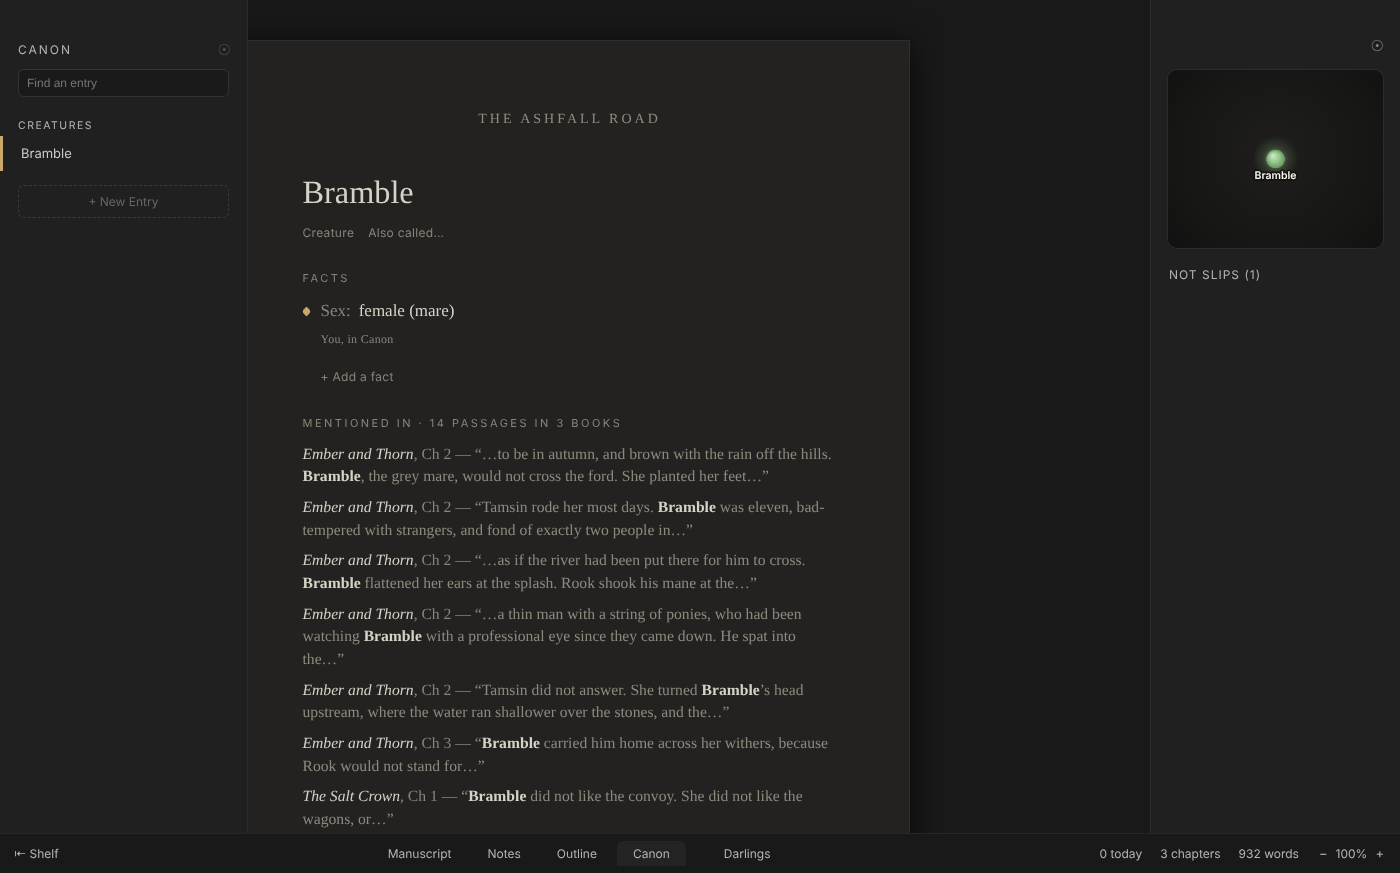
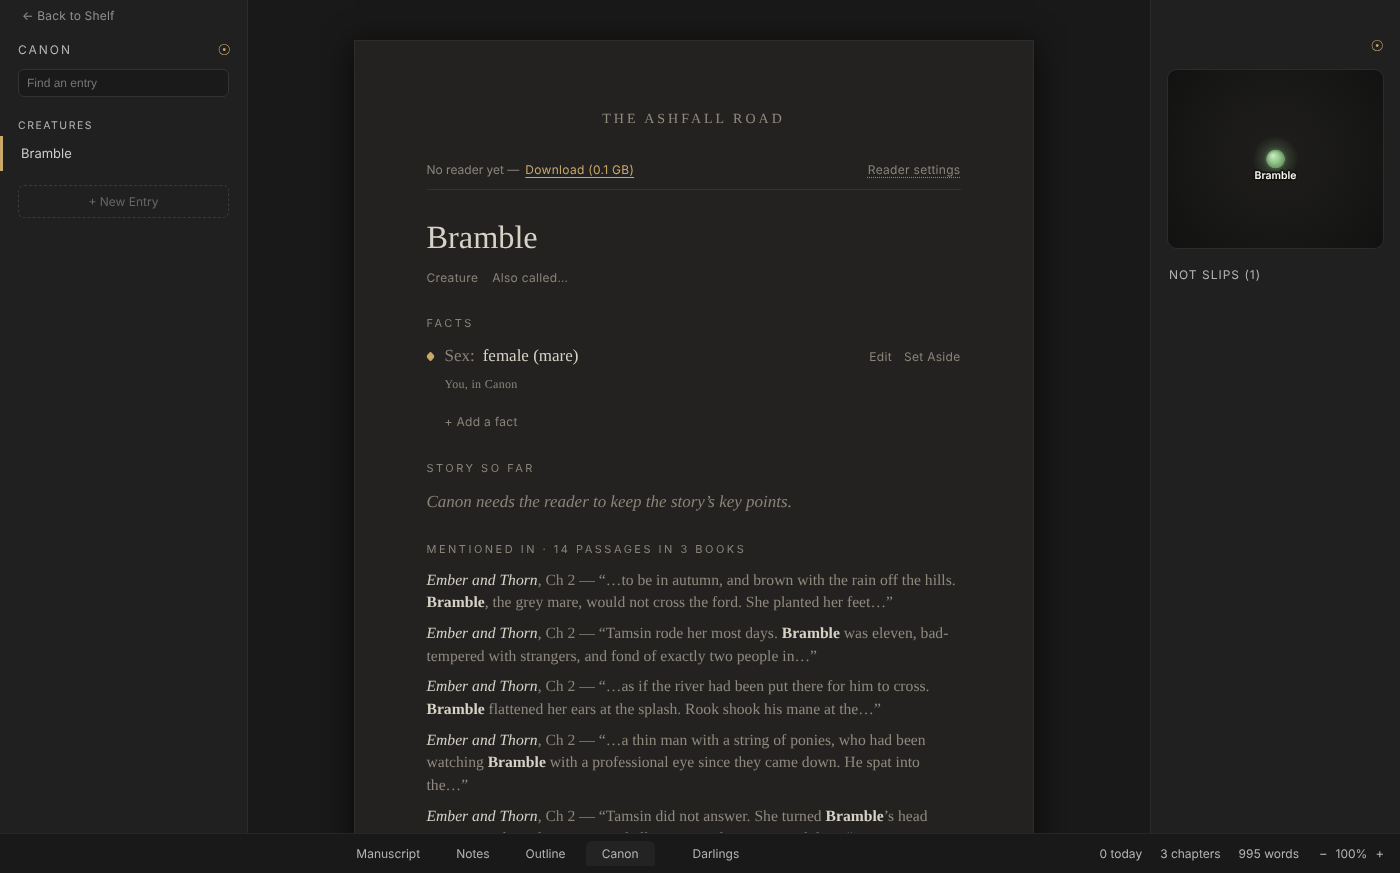
e2e: the Tutorial walked with no reader, the reader's states, Back to Shelf; screens
On a fresh computer: the Canon tab opens with both panes pinned and the
reader line offering Download; Help → Canon Reader… and ⌘K open its window;
lesson 3's button starts the download (paused for the walk); lessons 4 to 10
each do their Try this without a reader (lesson 6's sentence marked after the
pause and by ⌘'), and lesson 10's reader part shows its button. In the main
run, Reader ready · CPU and Reader settings (CPU only kept, then Automatic).
Screens refreshed for the pinned panes and the top-left Back to Shelf.

Claude-Session: https://claude.ai/code/session_01Uymcuup9eK8coCqa1NBqGH

diff --git a/scripts/canon.e2e.js b/scripts/canon.e2e.js
@@ -3,7 +3,9 @@
 // scripts/canon.e2e.js where there's no display). With CANON_SHOTS=1,
 // screenshots of the tab, a slip's popover, the reader's download, Read the
 // Shelf at work, the review of a change and a notebook go to
-// docs/semantics/screens/ (without it, nothing tracked is written).
+// docs/semantics/screens/ (without it, nothing tracked is written), and from
+// the Tutorial's walk, with no reader: the Canon tab's first open, the
+// reader's line and window in each state, Get the Reader, Back to Shelf.
 
 'use strict';
 
@@ -21,7 +23,8 @@ for (const name of fs.readdirSync(os.tmpdir())) {
 }
 // A part (NEO_E2E_PART) runs in a child NEO of its own, on a fresh computer
 // and an empty library (NEO_E2E_TMP): 'tutorial' meets the welcome and the
-// Tutorial; 'relaunch' opens NEO again on the same folders.
+// Tutorial, then walks its lessons with no reader; 'relaunch' opens NEO
+// again on the same folders.
 const PART = process.env.NEO_E2E_PART || '';
 const tmp = PART ? process.env.NEO_E2E_TMP : fs.mkdtempSync(path.join(os.tmpdir(), `neo-canon-test-${process.pid}-`));
 const LIB = path.join(tmp, 'NEO Library');
@@ -55,8 +58,9 @@ const server = http.createServer((req, res) => {
   const send = () => {
     if (res.destroyed) return;
     if (at >= MODEL.length) { res.end(); return; }
-    res.write(MODEL.subarray(at, at + 600000));
-    at += 600000;
+    const chunk = PART === 'tutorial' ? 150000 : 600000; // (the Tutorial's walk watches it longer)
+    res.write(MODEL.subarray(at, at + chunk));
+    at += chunk;
     setTimeout(send, 50);
   };
   send();
@@ -308,6 +312,35 @@ test('Read the Shelf (the fake reader), started by the download: progress, a pau
   await until(`currentTab === 'notes' && CSS.highlights.has('neo-canon-quote')`);
   assert.equal(await js(`[...CSS.highlights.get('neo-canon-quote')][0].toString()`), 'Bramble is in foal by the end of book 2?');
   await js(`switchTab('canon')`);
+});
+
+test('the reader, always findable: Reader ready · CPU at the top of an entry; Help → Canon Reader… with its settings', async () => {
+  await js(`canonGo('bramble')`);
+  await until(`/^Reader ready · CPU/.test(document.querySelector('#canon-view .cn-reader-line')?.textContent)`);
+  assert.equal(await js(`document.querySelector('#canon-view').firstElementChild.classList.contains('cn-reader-line')`), true);
+  await tick(300);
+  await shot('canon-reader-ready.png');
+  // the line's Reader settings, Help → Canon Reader… and ⌘K all open one window
+  wc.send('menu', { type: 'reader' });
+  await until(`!!document.querySelector('#canon-reader .rs-status') && /Reader ready · CPU/.test(document.querySelector('#canon-reader').textContent)`);
+  assert.deepEqual(await js(`[...document.querySelectorAll('#canon-reader .fr-choice.sel strong')].map((b) => b.textContent)`), ['Automatic', (tier === 'careful' ? 'Careful' : 'Quick') + ' reader · 0.1 GB']);
+  assert.match(await js(`document.querySelector('#canon-reader').textContent`), /Now: CPU\./);
+  assert.match(await js(`document.querySelector('#canon-reader .rs-speed').textContent`), /^Measured here: the reader reads about [\d,]+ words a minute\.$/);
+  await shot('canon-reader-settings.png');
+  // CPU only is kept in settings.json, and Automatic takes it away again
+  await js(`[...document.querySelectorAll('#canon-reader .fr-choice')].find((b) => b.textContent.startsWith('CPU only')).click()`);
+  await until(`canonRdr.hardware === 'cpu' && document.querySelector('#canon-reader .fr-choice.sel strong').textContent === 'CPU only'`);
+  assert.equal(JSON.parse(fs.readFileSync(path.join(tmp, 'app', 'settings.json'), 'utf8')).readerHardware, 'cpu');
+  await js(`[...document.querySelectorAll('#canon-reader .fr-choice')].find((b) => b.textContent.startsWith('Automatic')).click()`);
+  await until(`canonRdr.hardware === 'auto'`);
+  assert.equal(JSON.parse(fs.readFileSync(path.join(tmp, 'app', 'settings.json'), 'utf8')).readerHardware, undefined);
+  key('Escape');
+  await until(`!document.querySelector('#canon-reader')`);
+  await js(`document.querySelector('#canon-view .cn-rl-settings').click()`);
+  await until(`!!document.querySelector('#canon-reader')`);
+  await js(`document.querySelector('#canon-reader .rs-close').click()`);
+  await until(`!document.querySelector('#canon-reader')`);
+  await js(`canonShown = null; renderCanon()`);
 });
 
 const chapterFiles = () => ['c1', 'c2', 'c3'].map((c) => fs.readFileSync(path.join(LIB, SALT, 'chapters', c + '.html'), 'utf8'));
@@ -1071,11 +1104,207 @@ part('tutorial', 'the Tutorial on the shelf, and ⌘\' in its story finds exactl
   key("'", [CMD]);
   await until(`canonPassOn && canonProgress === '' && canonSlips.length === 3`, 9000);
   assert.deepEqual(await js(`canonSlips.map((s) => s.chId + ' ' + s.span + ' → ' + s.to)`), ['c2 his → her', 'c3 Marowby → Marrowby', 'c3 brown → grey']);
+  // fewer checks without the reader, said in one line with its button
+  assert.equal(await js(`document.querySelector('#canon-side .cs-reader').textContent`), 'Some checks need the reader. Download it (0.1 GB, runs on this computer).');
   await js(`canonSlips[0].range.startContainer.parentElement.scrollIntoView({ block: 'center' })`);
   await tick(400);
   await shot('tutorial-pass.png');
   key("'", [CMD]);
   await until(`!canonPassOn`);
+});
+
+// The Tutorial walked through, lesson by lesson, on a computer with no
+// reader: every Try this that needs none succeeds, and the lessons that need
+// the reader say so with a button that gets it.
+const lessons = () => js(`${tutorialShelf}.tutorial[0]`);
+const storyId = () => js(`${tutorialShelf}.tutorial[1]`);
+const lessonText = async (n) => { const id = await lessons(); return fs.readFileSync(path.join(LIB, id, 'chapters', 'l' + String(n).padStart(2, '0') + '.html'), 'utf8'); };
+const openStory = async (tab = 'manuscript') => {
+  const id = await storyId();
+  if (await js(`!book || book.id !== '${id}'`)) { await js(`openBook('${id}')`); await until(`book && book.id === '${id}'`); }
+  if (await js(`currentTab !== '${tab}'`)) await js(`switchTab('${tab}')`);
+};
+const caretAtEndOf = (chId) => js(`(() => { const ps = document.querySelectorAll('.chapter[data-id="${chId}"] .chapter-body p'); const p = ps[ps.length - 1]; p.scrollIntoView({ block: 'center' }); const r = document.createRange(); r.selectNodeContents(p); r.collapse(false); const s = getSelection(); s.removeAllRanges(); s.addRange(r); p.closest('.chapter-body').focus(); })()`);
+
+part('tutorial', 'lesson 1: ← Back to Shelf at the top left, in sight, and the darling already cut', async () => {
+  assert.match(await lessonText(1), /Back to Shelf/);
+  await openStory();
+  const b = await js(`(() => { const b = $('#back-to-shelf'); const r = b.getBoundingClientRect(); return { text: b.textContent.trim(), left: r.left, top: r.top, w: r.width, opacity: +getComputedStyle(b).opacity, inBar: !!b.closest('#bottombar') }; })()`);
+  assert.equal(b.text, '← Back to Shelf');
+  assert.ok(b.left < 120 && b.top < 20 && b.w > 60 && b.opacity >= 0.5 && !b.inBar, JSON.stringify(b));
+  assert.equal(await js(`!!document.querySelector('#bottombar #back-to-shelf')`), false); // one way back, not two
+  await tick(300);
+  await shot('back-to-shelf.png');
+  await theme('light');
+  await shot('back-to-shelf-light.png');
+  await theme('night');
+  await js(`$('#back-to-shelf').click()`);
+  await until(`!$('#bookshelf-view').hidden && $('#editor-view').hidden`);
+  await openStory('darlings');
+  await until(`/bitten a bishop/.test(document.querySelector('#darlings-list').textContent)`);
+});
+
+part('tutorial', 'the Canon tab, first open with no reader: both panes pinned, the reader line with Download; unpinned, it stays so', async () => {
+  assert.match(await lessonText(2), /read Chapter 1 of/);
+  await openStory('canon');
+  await until(`!!document.querySelector('#canon-view .cn-setup') && !!document.querySelector('#nav-list .cn-item')`);
+  const panes = `['#nav-pane', '#side-pane'].map((p) => $(p).dataset.pinned === '1' && $(p).classList.contains('open'))`;
+  assert.deepEqual(await js(panes), [true, true]);
+  assert.match(await js(`document.querySelector('#canon-view .cn-home').textContent`), /^Pick an entry from the list on the left/);
+  await tick(400);
+  await shot('canon-tab-first-open.png');
+  await theme('light');
+  await shot('canon-tab-first-open-light.png');
+  await theme('night');
+  // an entry: the reader line at the top, no reader yet, one button
+  await js(`canonGo('juniper')`);
+  await until(`/^No reader yet — Download \\(0\\.1 GB\\)Reader settings$/.test(document.querySelector('#canon-view .cn-reader-line')?.textContent)`);
+  await shot('canon-reader-none.png');
+  // the manuscript keeps its hover-hidden panes; the Canon tab its pins
+  await js(`switchTab('manuscript')`);
+  assert.deepEqual(await js(`['#nav-pane', '#side-pane'].map((p) => $(p).dataset.pinned === '1')`), [false, false]);
+  await js(`switchTab('canon')`);
+  assert.deepEqual(await js(panes), [true, true]);
+  await js(`$('#nav-pin').click()`);
+  await js(`switchTab('manuscript'); switchTab('canon')`);
+  assert.equal(await js(`$('#nav-pane').dataset.pinned`), '0'); // this device remembers
+  await js(`$('#nav-pin').click()`);
+  // Help → Canon Reader… opens from here, and ⌘K finds it
+  wc.send('menu', { type: 'reader' });
+  await until(`!!document.querySelector('#canon-reader') && /No reader on this computer yet\\.Download the Reader \\(0\\.1 GB\\)/.test(document.querySelector('#canon-reader').textContent)`);
+  await shot('canon-reader-window-none.png');
+  key('Escape');
+  await until(`!document.querySelector('#canon-reader')`);
+  await until2(() => key('K', [CMD]), `!!go`);
+  wc.insertText('canon reader');
+  await until(`(${goRows}[0] || '') === 'Canon Reader… | Command'`);
+  key('Return');
+  await until(`!!document.querySelector('#canon-reader')`);
+  key('Escape');
+  await until(`!document.querySelector('#canon-reader')`);
+});
+
+part('tutorial', 'lesson 3: Get the Reader, its button in the page starts the download and shows it; the Canon tab\'s line follows; Pause', async () => {
+  const id = await lessons();
+  await js(`openBook('${id}')`);
+  await until(`book && book.id === '${id}'`);
+  const link = `document.querySelector('.chapter[data-id="l03"] a[href="neo:reader"]')`;
+  await until(`!!${link}`);
+  assert.equal(await js(`${link}.textContent`), 'Download the reader');
+  // a link in the page is saved with it, as the lesson was written
+  assert.match(await js(`captureBody(document.querySelector('.chapter[data-id="l03"] .chapter-body'))`), /<a href="neo:reader">Download the reader<\/a>/);
+  await js(`${link}.scrollIntoView({ block: 'center' })`);
+  await tick(300);
+  await shot('tutorial-get-reader.png');
+  await js(`${link}.click()`);
+  await until(`!!document.querySelector('#canon-reader') && canonRdr.download.state === 'downloading'`);
+  await until(`/Downloading the reader… \\d+%/.test(document.querySelector('#canon-reader .rs-status').textContent)`);
+  await shot('canon-reader-window.png');
+  key('Escape');
+  await until(`!document.querySelector('#canon-reader')`);
+  await openStory('canon');
+  await js(`canonGo('juniper')`);
+  await until(`/^Downloading the reader… \\d+% · Pause/.test(document.querySelector('#canon-view .cn-reader-line')?.textContent) && canonRdr.download.got > 0`);
+  await shot('canon-reader-downloading.png');
+  await js(`[...document.querySelectorAll('#canon-view .cn-reader-line button')].find((b) => b.textContent === 'Pause').click()`);
+  await until(`/^The reader’s download is paused at \\d+% · Resume/.test(document.querySelector('#canon-view .cn-reader-line')?.textContent)`);
+  assert.equal(await js(`canonRdr.installed`), null);
+});
+
+part('tutorial', 'lessons 4 and 5, no reader: Juniper\'s source opens Chapter 1 lit; Hesketh\'s Story so far; ⌘\' finds the three slips, two fixed, one Not a slip', async () => {
+  assert.match(await lessonText(4), /Before this lesson,<\/b> read Chapter 2/);
+  assert.match(await lessonText(5), /Before this lesson,<\/b> read Chapter 3/);
+  await openStory('canon');
+  await js(`canonGo('juniper')`);
+  await until(`document.querySelector('#canon-view .cn-name')?.textContent === 'Juniper'`);
+  await js(`[...document.querySelectorAll('#canon-view .cn-fact')].find((f) => /Sex/.test(f.textContent)).querySelector('.cn-where').click()`);
+  await until(`currentTab === 'manuscript' && CSS.highlights.has('neo-canon-quote')`);
+  assert.match(await js(`[...CSS.highlights.get('neo-canon-quote')][0].toString()`), /Juniper, the bay mare/);
+  await js(`switchTab('canon'); canonGo('hesketh')`);
+  await until(`document.querySelectorAll('#canon-view .cn-event').length === 2`);
+  await js(`switchTab('manuscript')`);
+  await js(`document.querySelector('.chapter[data-id="c1"] .chapter-body').focus()`);
+  key("'", [CMD]);
+  await until(`canonPassOn && canonProgress === '' && canonSlips.length === 3`, 9000);
+  // (the pass's pane says the reader would check more: here, where its download stands)
+  assert.match(await js(`document.querySelector('#canon-side .cs-reader').textContent`), /^The reader’s download is paused at \d+% · ResumeReader settings$/);
+  await js(`canonApply(canonSlips.find((s) => s.span === 'his'))`);
+  await js(`canonApply(canonSlips.find((s) => s.span === 'Marowby'))`);
+  await until(`canonShownSlips().length === 1`);
+  await js(`canonNotSlip(canonShownSlips()[0])`);
+  await until(`canonShownSlips().length === 0`);
+  assert.match(await js(`chapterHTML.c2`), /Juniper tossed her head/);
+  assert.match(await js(`chapterHTML.c3`), /lamps of Marrowby/);
+  key("'", [CMD]);
+  await until(`!canonPassOn`);
+});
+
+part('tutorial', 'lesson 6, no reader: "Juniper shook his mane." at the end of Chapter 3 is marked after the pause, and by ⌘\' at once', async () => {
+  assert.match(await lessonText(6), /Juniper shook his mane\./);
+  await openStory();
+  await caretAtEndOf('c3');
+  key('Return');
+  await tick(100);
+  wc.insertText('Juniper shook his mane.');
+  await tick(300);
+  assert.equal(await js(`canonSlips.length`), 0); // nothing while typing
+  await until(`canonSlips.some((s) => s.quiet && s.span === 'his' && s.sentence === 'Juniper shook his mane.')`, 8000);
+  assert.equal(await js(`CSS.highlights.get('neo-slip').size`), 1);
+  await tick(200);
+  await shot('tutorial-quiet-check.png');
+  // the impatient way: ⌘' finds it as well
+  key("'", [CMD]);
+  await until(`canonPassOn && canonProgress === '' && canonSlips.some((s) => s.sentence === 'Juniper shook his mane.')`, 9000);
+  key("'", [CMD]);
+  await until(`!canonPassOn`);
+  // done with it: the sentence goes, as the lesson says
+  await js(`(() => { const ps = document.querySelectorAll('.chapter[data-id="c3"] .chapter-body p'); const p = ps[ps.length - 1]; const body = p.closest('.chapter-body'); p.remove(); syncChapter(body, 'c3'); })()`);
+});
+
+part('tutorial', 'lessons 7 and 8, no reader: Juniper made a stallion through a review list; a link to Odile Fenn makes her entry', async () => {
+  await openStory('canon');
+  await js(`(() => { const e = canon.entries.get('juniper').data; const old = e.facts.find((f) => f.attr === 'sex'); canonChangeAcross('juniper', Canon.handFact('Sex: stallion'), old); })()`);
+  await until(`canonReview && !canonReview.loading && canonReview.items.length > 0`);
+  assert.ok(await js(`canonReview.items.some((x) => x.span === 'her' && x.to === 'his')`));
+  await js(`[...[...document.querySelectorAll('#canon-side .cs-review')][0].querySelectorAll('button')].find((b) => b.textContent === 'Apply').click()`);
+  await until(`canonReview.items[0].state === 'applied'`);
+  await js(`document.execCommand('undo')`);
+  await until(`canonReview.items[0].state === 'todo'`);
+  await js(`[...document.querySelectorAll('#canon-side button')].find((b) => b.textContent === 'Stop Reviewing').click()`);
+  await until(`!canonReview`);
+  await js(`switchTab('canon')`);
+  await js(`canonEdit('wren-calloway', (d) => { d.words = 'Carries a letter for [[Odile Fenn]].\\n'; })`);
+  await js(`canonGo('wren-calloway')`);
+  await until(`!!document.querySelector('#canon-view .cn-words .cn-link.cn-unresolved')`);
+  await js(`document.querySelector('#canon-view .cn-words .cn-link.cn-unresolved').click()`);
+  await until(`[...document.querySelectorAll('.pop-menu button')].some((b) => b.textContent === 'Make an entry for “Odile Fenn”')`);
+  await js(`[...document.querySelectorAll('.pop-menu button')].find((b) => b.textContent === 'Make an entry for “Odile Fenn”').click()`);
+  await until(`[...document.querySelectorAll('.pop-menu .pm-title')].some((x) => x.textContent === 'What is Odile Fenn?')`);
+  await menuPick('Person');
+  await until(`[...canon.entries.values()].some((x) => x.data && x.data.name === 'Odile Fenn')`);
+});
+
+part('tutorial', 'lesson 9, no reader: ⌘K "bay mare" finds Juniper; the World Map has Ballast and Hesketh', async () => {
+  await openStory();
+  await until2(() => key('K', [CMD]), `!!go`);
+  wc.insertText('bay mare');
+  await until(`(${goRows}[0] || '') === 'Juniper | Entry'`);
+  key('Escape');
+  await until(`!go`);
+  wc.send('menu', { type: 'worldMap' });
+  await until(`!!document.querySelector('#map-view') && NeoMap.nodes().length > 0`);
+  const ids = await js(`NeoMap.nodes().map((d) => d.id)`);
+  assert.ok(ids.includes('ballast') && ids.includes('hesketh'), ids.join());
+  await js(`mapClose()`);
+});
+
+part('tutorial', 'lesson 10: Needs You asks about Hesketh\'s mule with no reader; Read the Shelf\'s part says it needs the reader, with its button', async () => {
+  assert.match(await lessonText(10), /This one needs the reader\. Not got it yet\? <a href="neo:reader">Download the reader<\/a>/);
+  await openStory('canon');
+  await js(`canonShown = null; renderCanon()`);
+  await until(`[...document.querySelectorAll('#canon-side .cs-need strong')].some((x) => /^Hesketh says Juniper/.test(x.textContent))`);
+  await js(`[...document.querySelectorAll('#canon-side .cs-need button')].find((b) => b.textContent === 'Only what’s said').click()`);
+  await until(`!canon.entries.get('juniper').data.facts.some((f) => f.value === 'mule')`);
 });
 
 part('tutorial', 'the Canon tab on a book whose shelf keeps none: the explainer, Keep a Canon for “Works in Progress”, the Tutorial', async () => {
